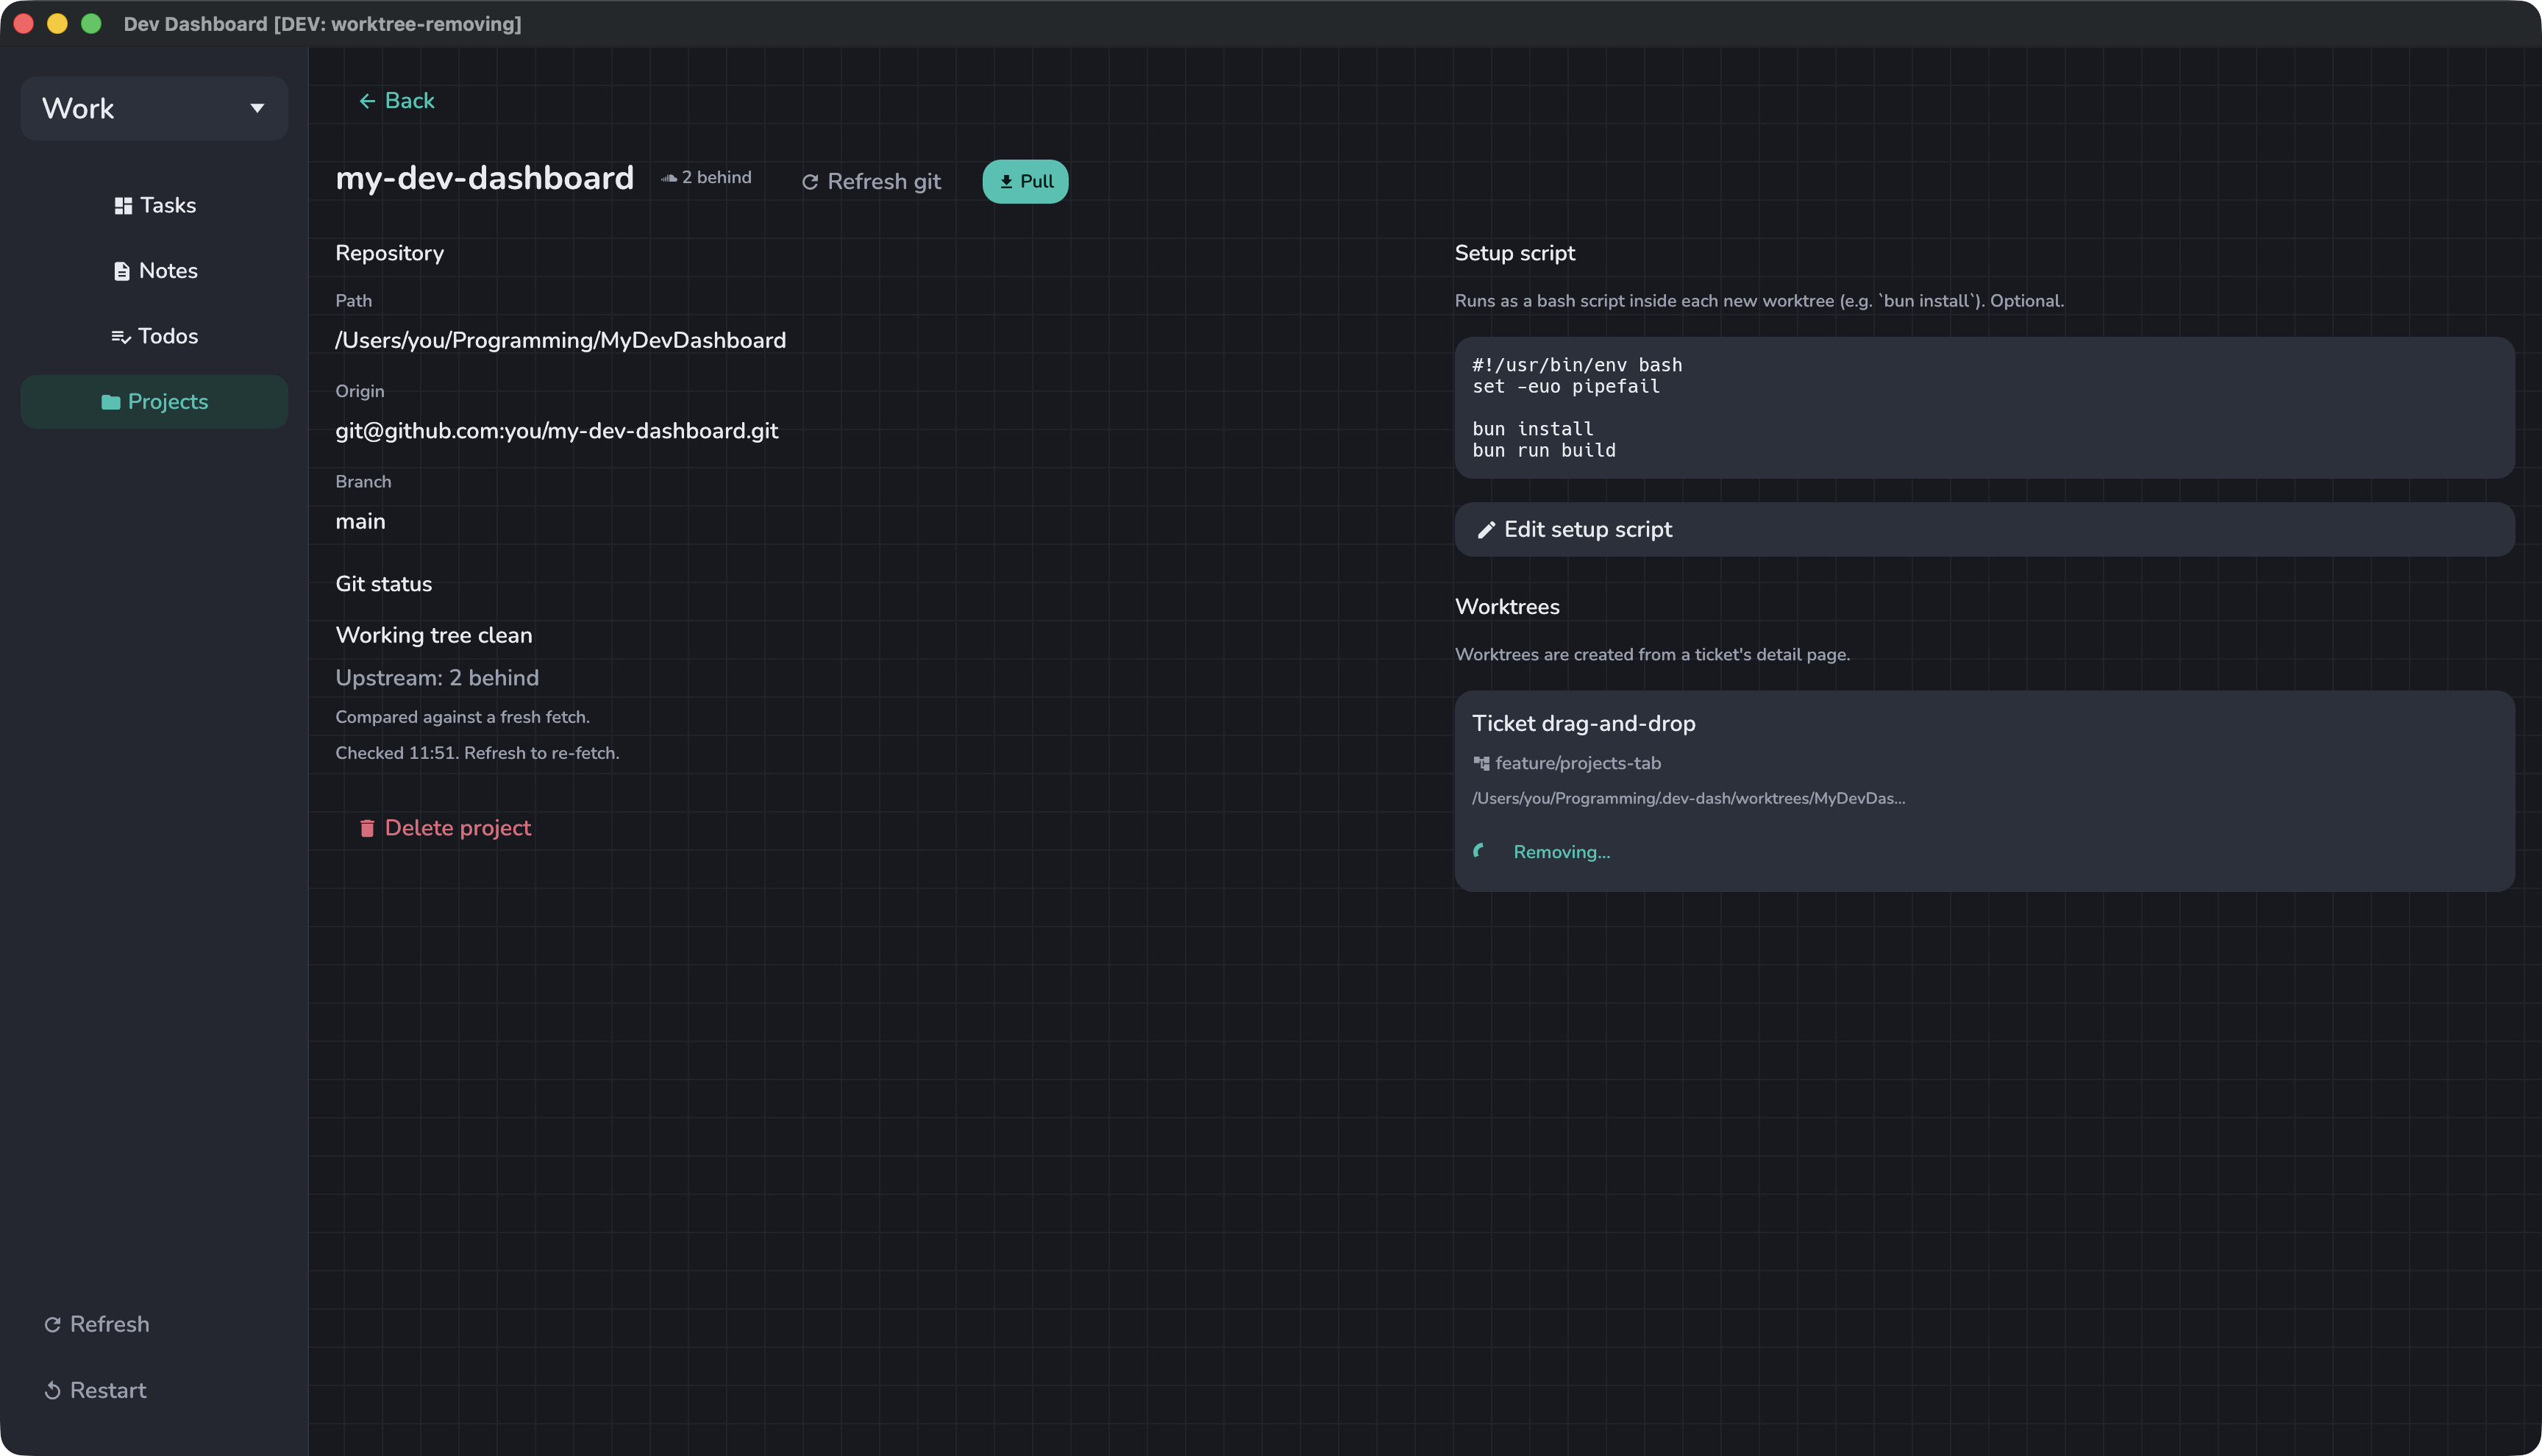
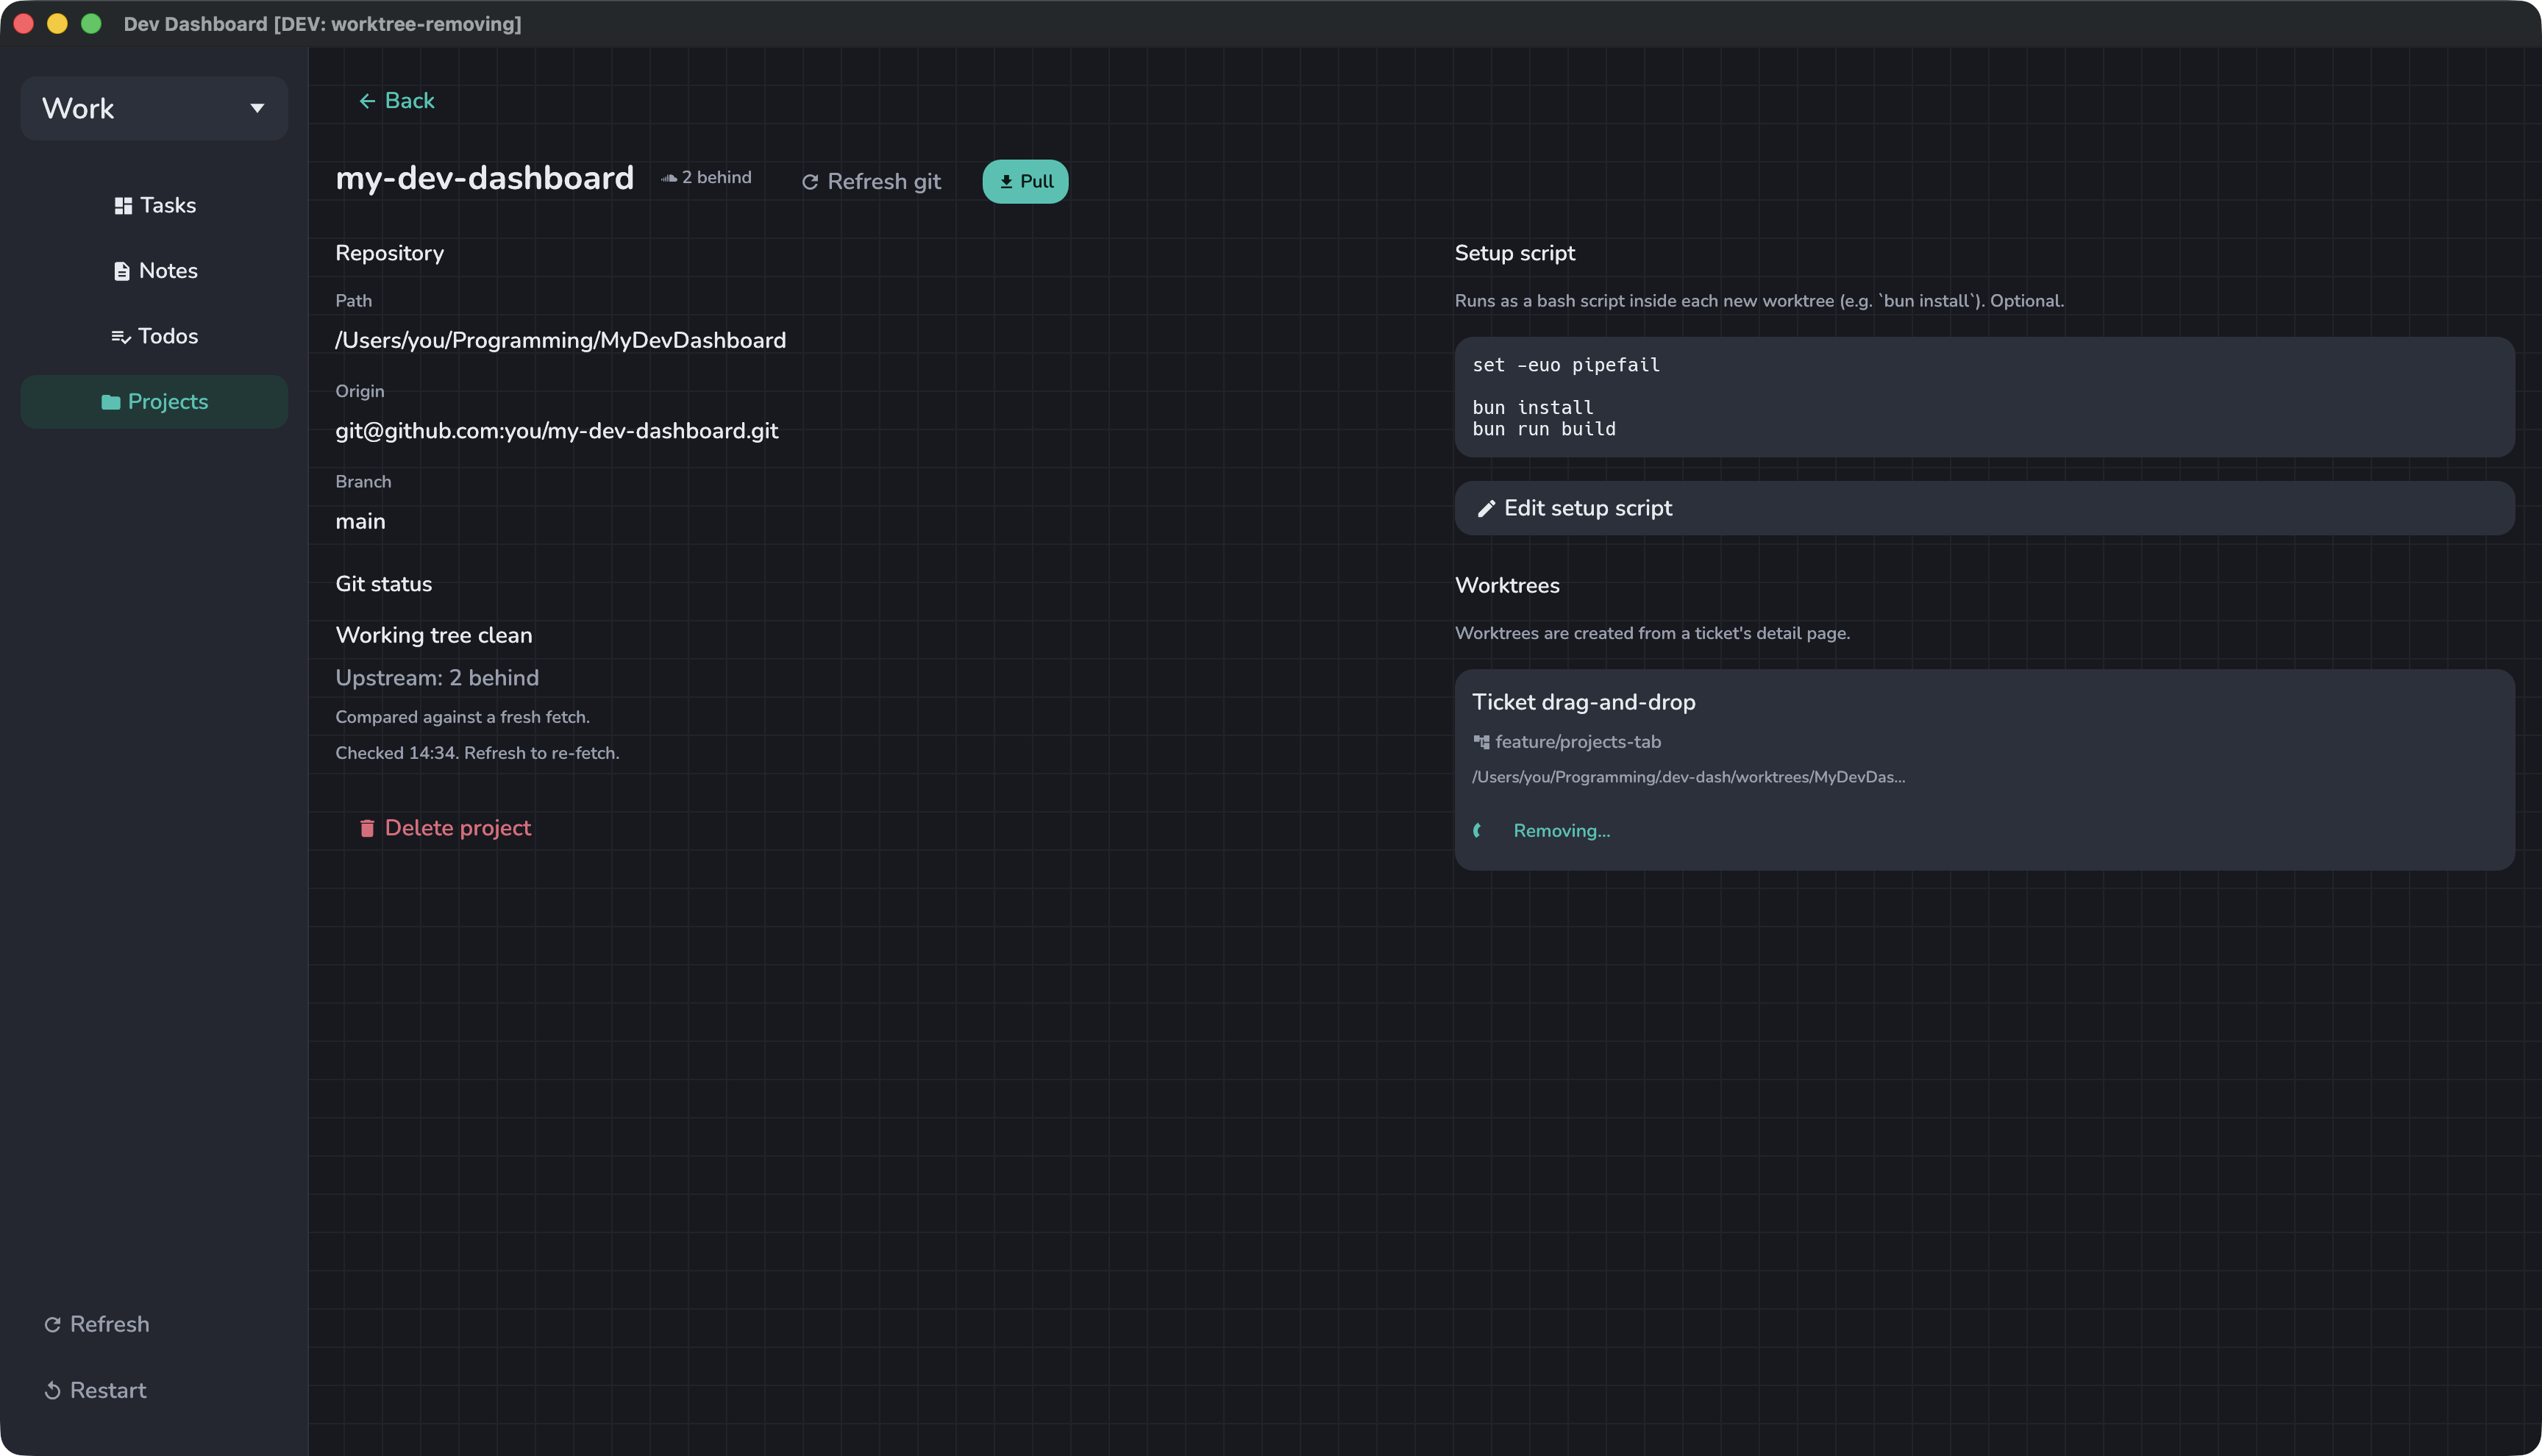
Mission no shebang

Changed region(s): [[0.5625, 0.2465, 1.0, 0.6162]]

diff --git a/src/ui/projects/project.rs b/src/ui/projects/project.rs
@@ -387,12 +387,10 @@ impl ProjectsState {
                     .size(12.5),
                 );
                 ui.add_space(12.0);
-                input::text_area(
-                    ui,
-                    draft.script_mut(),
-                    "#!/usr/bin/env bash\nbun install",
-                    12,
-                );
+                // No shebang in the placeholder: the script is executed with `bash -c <script>`
+                // (system::projects::git::run_setup_script), so a `#!/usr/bin/env bash` line would
+                // just be an inert comment — bash is already the interpreter.
+                input::text_area(ui, draft.script_mut(), "bun install", 12);
                 ui.add_space(14.0);
                 ui.horizontal(|ui| {
                     save = button::primary(ui, &format!("{} Save", theme::icon::SAVE)).clicked();

diff --git a/src/ui/dev.rs b/src/ui/dev.rs
@@ -255,7 +255,8 @@ pub fn mock_board() -> ViewData {
     let dashboard = project(
         "my-dev-dashboard",
         "/Users/you/Programming/MyDevDashboard",
-        "#!/usr/bin/env bash\nset -euo pipefail\n\nbun install\nbun run build",
+        // No shebang: setup scripts run via `bash -c <script>`, so one would be an inert comment.
+        "set -euo pipefail\n\nbun install\nbun run build",
     );
     let webapp = project("acme-web", "/Users/you/Programming/acme-web", "");
     let api = project("acme-api", "/Users/you/Programming/acme-api", "");

diff --git a/AGENTS.md b/AGENTS.md
@@ -738,6 +738,8 @@ shown ABOVE the worktrees in that column. Rules:
 - **Runs on a fresh provision only** — a first-time create OR a recreate (removal deleted the
   folder), never on an ADOPTED existing folder (that was already set up). `git::run_setup_script`
   is the boundary: `bash -c <script>` in the worktree dir, a typed `ProcessError` on non-zero exit.
+  Because it's `bash -c`, the script needs **no shebang** — a `#!/usr/bin/env bash` first line would
+  be an inert comment (bash is already the interpreter), so don't put one in examples/placeholders.
 - **Provisioning is off-loop + shows a loading state.** git-add + the (possibly slow) setup script
   never run on the worker's event loop — `app::projects::spawn_worktree_create` /
   `spawn_worktree_recreate` spawn them, guarded per-`(project, ticket)` by